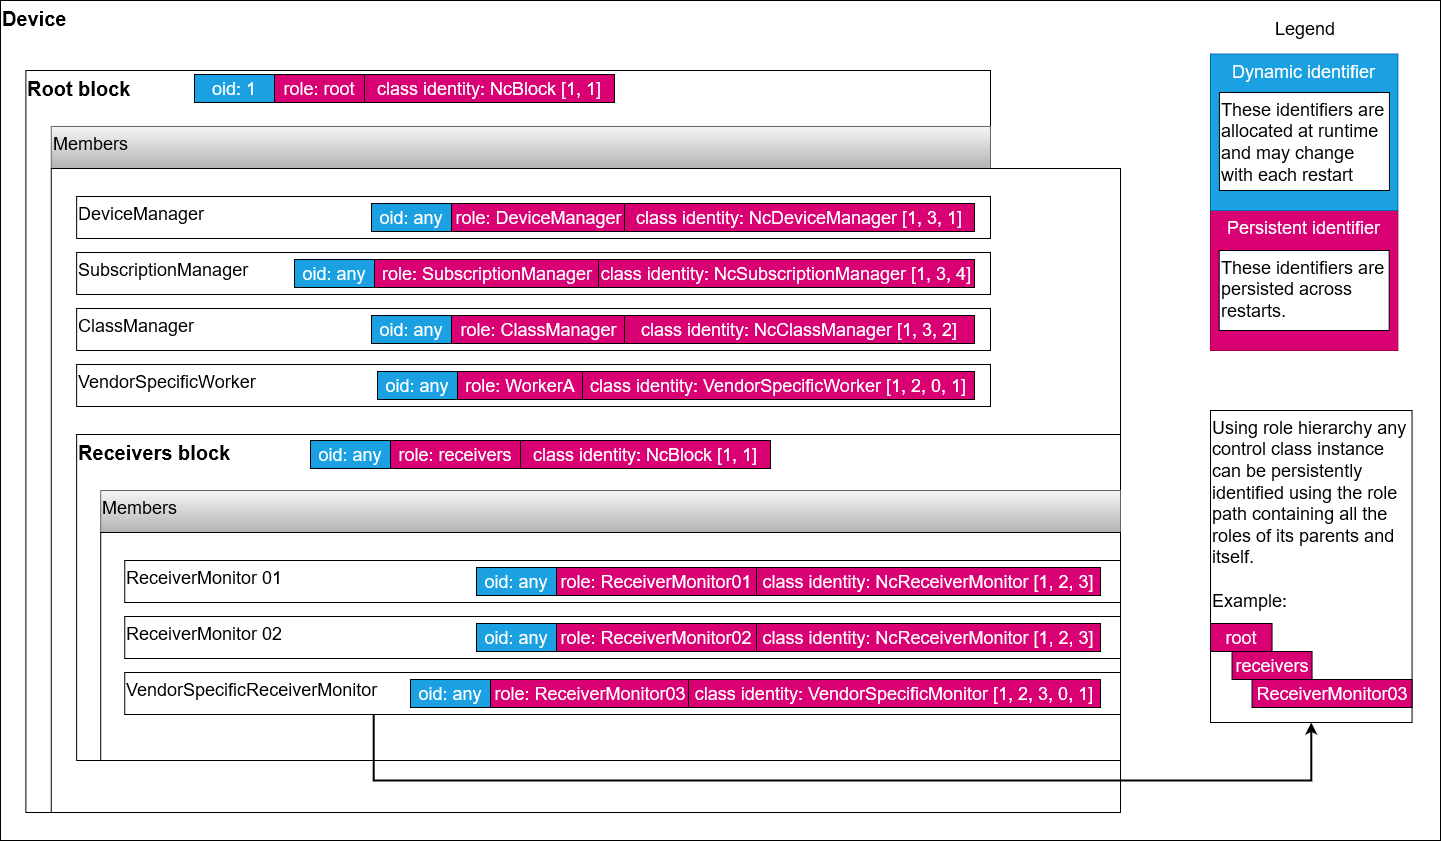
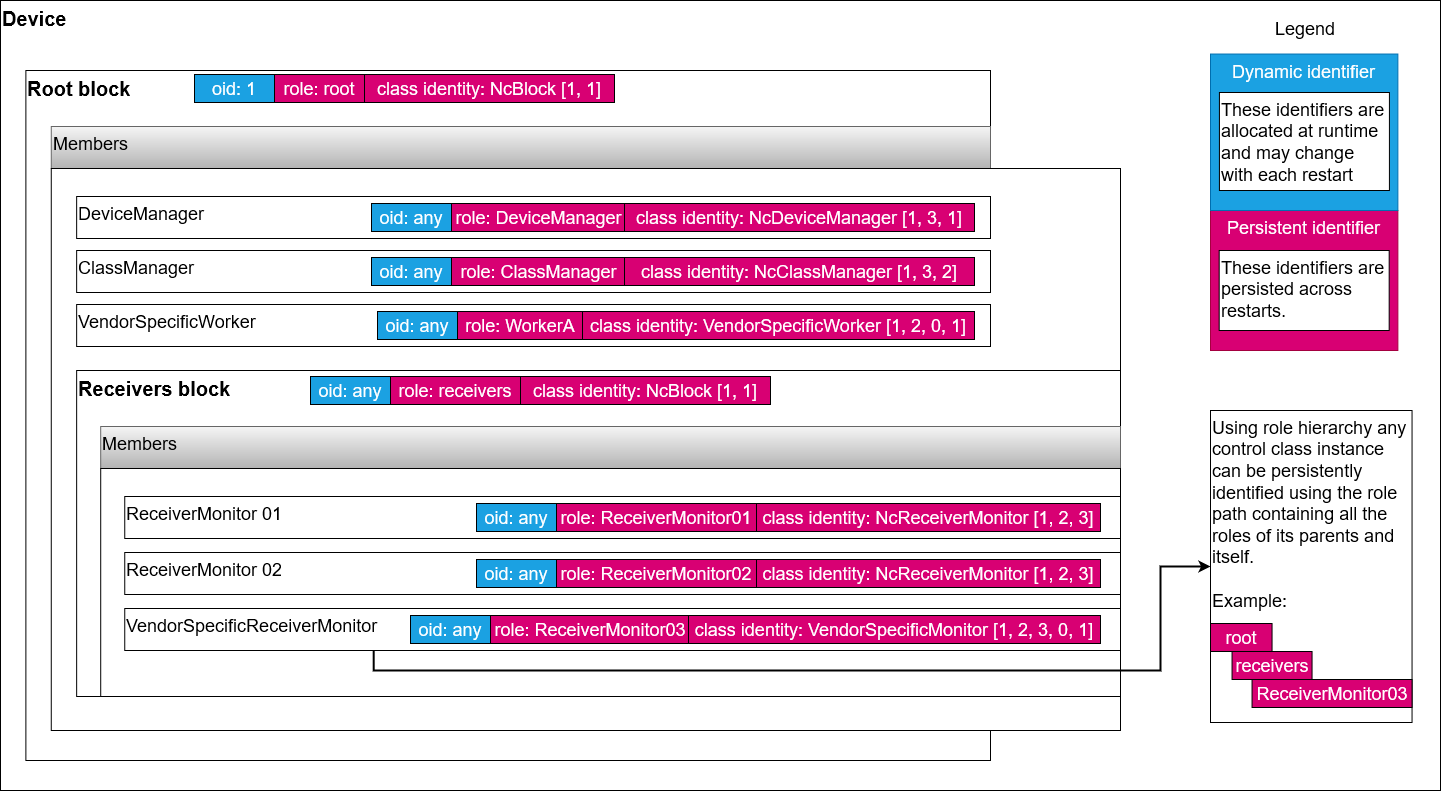
Synchronize content with main specs (#18)
* Synchronize content with main specs

- fix wording and avoid conformance language
- fix diagrams
- fix links

* Update Controller implementation tutorial.md

To fix link and avoid conformance language keyword.

* Update Device implementation tutorial.md

Backticks around members to be consistent with other documents in this INFO spec as per review comment.

diff --git a/docs/Device implementation tutorial.md b/docs/Device implementation tutorial.md
@@ -11,7 +11,7 @@ This section covers the basis for quickly building an MS-05 / IS-12 device imple
 
 This section provides guidance in select focus areas required for device implementations.
 
-For full definitions of models referred to in this document please check the [IDL](https://specs.amwa.tv/ms-05-02/branches/v1.0-dev/idl/NC-Framework.html).
+For full definitions of models referred to in this document please check the models published in the [Framework](https://specs.amwa.tv/ms-05-02/branches/v1.0-dev/docs/Framework.html) or the [Feature Sets Register](https://specs.amwa.tv/nmos-control-feature-sets/).
 
 The basic device workflow follows the diagram below where individual steps are detailed in the following subsections.
 
@@ -21,7 +21,7 @@ The basic device workflow follows the diagram below where individual steps are d
 
 ### Modelling the control classes
 
-As per the [MS-05-02](https://specs.amwa.tv/ms-05-02/branches/v1.0-dev/docs/NcObject.html) specification all control classes must inherit from `NcObject`.
+As per the [MS-05-02](https://specs.amwa.tv/ms-05-02/branches/v1.0-dev/docs/NcObject.html) specification all control classes inherit from `NcObject`.
 
 This base control class exposes important properties but also [generic methods](https://specs.amwa.tv/ms-05-02/branches/v1.0-dev/docs/NcObject.html#generic-getter-and-setter) for getting and setting property values.
 
@@ -42,9 +42,9 @@ As per the [MS-05-02](https://specs.amwa.tv/ms-05-02/branches/v1.0-dev/docs/Bloc
 
 All devices have at the very least a `root block` which is the top most block in the device tree. The root block has an `oid` of 1 and the role of `root`.
 
-Control classes which are nested inside a block are advertised using descriptors in the members property (`2p10`) of [NcBlock](https://specs.amwa.tv/ms-05-02/branches/v1.0-dev/idl/NC-Framework.html).
+Control classes which are nested inside a block are advertised using descriptors in the `members` property of [NcBlock](https://specs.amwa.tv/ms-05-02/branches/v1.0-dev/docs/Framework.html#ncblock).
 
-The members property in blocks enables [tree discovery](https://specs.amwa.tv/ms-05-02/branches/v1.0-dev/docs/Blocks.html#tree-discovery) of the device structure.
+The `members` property in blocks enables [tree discovery](https://specs.amwa.tv/ms-05-02/branches/v1.0-dev/docs/Blocks.html#tree-discovery) of the device structure.
 
 Blocks are also useful for quickly finding a particular control class by using the [search methods](https://specs.amwa.tv/ms-05-02/branches/v1.0-dev/docs/Blocks.html#tree-discovery) provided.
 
@@ -69,11 +69,11 @@ Indeed, sometimes devices might also need to create vendor specific worker class
 
 [MS-05-02](https://specs.amwa.tv/ms-05-02/branches/v1.0-dev/docs/NcObject.html#touchpoints) specifies an identity mapping mechanism available in the base `NcObject` class. This touchpoint mechanism can be used to associate identities from outside contexts with entities inside the control structure of the device.
 
-One such example is the [ReceiverMonitor](https://specs.amwa.tv/ms-05-02/branches/v1.0-dev/docs/Feature_sets.html#ncreceivermonitor) control class which is used to express connection and payload statuses for an attached stream receiver.
+One such example is the [ReceiverMonitor](https://specs.amwa.tv/nmos-control-feature-sets/branches/main/monitoring/#ncreceivermonitor) control class which is used to express connection and payload statuses for an attached stream receiver.
 
 This allows for a `Receiver monitor` to be associated with a specific [NMOS IS-04](https://specs.amwa.tv/is-04/) receiver.
 
-A device is expected to offer touchpoints to map identities wherever relevant (For example if the device has a specific worker class like the `Receiver monitor` which is linked to a resource in another context or specification like an NMOS IS-05 receiver).
+A device is expected to offer touchpoints to map identities wherever relevant (For example if the device has a specific worker class like the `Receiver monitor` which is linked to a resource in another context or specification like an NMOS IS-04 receiver).
 
 | ![Context identity mapping](images/context-identity-mapping.png) |
 |:--:|
@@ -92,13 +92,13 @@ A minimal implementation of a device will have at least two [managers](Device%20
 |:--:|
 | _**Typical device structure**_ |
 
-A device is expected to allow its structure to be discovered (see [Block control classes](Device%20implementation%20tutorial.md#block-control-classes)) by exposing all of its features in nested blocks starting with the `root block`.
+A device is expected to allow its structure to be discovered (see [Block control classes](Device%20implementation%20tutorial.md#block-control-classes)) by exposing its capabilities in nested blocks starting with the `root block`.
 
 #### Vendor specific control classes
 
 Vendor specific control classes can be created by branching off from a standard control class and following the class ID generation guidelines specified in [MS-05-01](https://specs.amwa.tv/ms-05-01/branches/v1.0-dev/docs/Appendix_A_-_Class_ID_Format.html).
 
-Here is an example of a new worker control class called `DemoClassAlpha`. It inherits from [NcWorker](https://specs.amwa.tv/ms-05-02/branches/v1.0-dev/idl/NC-Framework.html) which has an identity of `[1, 2]` and adds the authority key (in this case 0, but should be a negative number if the vendor has an OUI or CID) followed by the index 1.
+Here is an example of a new worker control class called `DemoClassAlpha`. It inherits from [NcWorker](https://specs.amwa.tv/ms-05-02/branches/v1.0-dev/docs/Framework.html#ncworker) which has an identity of `[1, 2]` and adds the authority key (in this case 0, but would be a negative number if the vendor has an OUI or CID) followed by the index 1.
 
 ```json
 {
@@ -146,7 +146,7 @@ ensuring class identity uniqueness.
 
 ### Exposing models through the protocol
 
-After a device has initiated its device tree structure and allocated oids to every control class instance, it then either waits for external commands which interact with these entities (e.g. get/set values, invoke actions) or sends notifications for properties which have changed if there are subscribers.
+After a device has initiated its device model structure and allocated oids to every control class instance, it then either waits for external commands which interact with these entities (e.g. get/set values, invoke actions) or sends notifications for properties which have changed if there are subscriptions.
 
 [IS-12](https://specs.amwa.tv/is-12/branches/v1.0-dev/docs/Protocol_messaging.html) defines the protocol messaging behavior but also what the different JSON representations are for specific [data types](https://specs.amwa.tv/is-12/branches/v1.0-dev/docs/Data_type_marshalling.html).
 
@@ -185,11 +185,11 @@ As per the [NMOS IS-12](https://specs.amwa.tv/is-12/branches/v1.0-dev/docs/Proto
 
 `Note`: Multiple commands can be sent in the commands array.
 
-As per the [MS-05-02](https://specs.amwa.tv/ms-05-02/branches/v1.0-dev/docs/NcObject.html#generic-getter-and-setter) specification all control classes must inherit from `NcObject` which specifies generic `Get` and `Set` methods.
+As per the [MS-05-02](https://specs.amwa.tv/ms-05-02/branches/v1.0-dev/docs/NcObject.html#generic-getter-and-setter) specification all control classes inherit from `NcObject` which specifies generic `Get` and `Set` methods.
 
-These methods can be used by a controller to get the value of a property in a control class or set the value of a property in a control class if write allowed. Furthermore, any control class may have its own methods which can be invoked in the same way as the generic methods.
+These methods can be used by a controller to get the value of a property in a control class or set the value of a property in a control class if write allowed. Furthermore, any control class could have other methods which can be invoked in the same way as the generic methods.
 
-As specified by the [IDL](https://specs.amwa.tv/ms-05-02/branches/v1.0-dev/idl/NC-Framework.html) any method response must inherit from the base data type `NcMethodResult`.
+As specified by `MS-05-02` any method response inherits from the base data type [NcMethodResult](https://specs.amwa.tv/ms-05-02/branches/v1.0-dev/docs/Framework.html#ncmethodresult).
 
 | ![Command example](images/command-example.png) |
 |:--:|
@@ -197,9 +197,9 @@ As specified by the [IDL](https://specs.amwa.tv/ms-05-02/branches/v1.0-dev/idl/N
 
 #### Subscriptions, events and notifications
 
-As per the [MS-05-02](https://specs.amwa.tv/ms-05-02/branches/v1.0-dev/docs/NcObject.html#propertychanged-event) specification all control classes must inherit from `NcObject` which specifies the `PropertyChanged` event.
+As per the [MS-05-02](https://specs.amwa.tv/ms-05-02/branches/v1.0-dev/docs/NcObject.html#propertychanged-event) specification all control classes inherit from `NcObject` which specifies the `PropertyChanged` event.
 
-This means any properties in any control class can be subscribed to in order to receive change notifications.
+This means any object in the device model can be subscribed to in order to receive property change notifications.
 A device is expected to allow controllers to [Subscribe](https://specs.amwa.tv/is-12/branches/v1.0-dev/docs/Subscribing_to_events.html) to object ids it is interested in by correctly handling `Subscription` messages and sending back `SubscriptionResponse` messages as specified in [NMOS IS-12](https://specs.amwa.tv/is-12/branches/v1.0-dev/docs/Protocol_messaging.html).
 
 A device is also expected to use the underlying WebSocket control protocol context and the subscriptions received in order to determine when a notification message needs to be sent to a controller.

diff --git a/docs/Controller implementation tutorial.md b/docs/Controller implementation tutorial.md
@@ -54,17 +54,17 @@ As per the [NMOS IS-12](https://specs.amwa.tv/is-12/branches/v1.0-dev/docs/Proto
 
 `Note`: Multiple commands can be sent in the commands array.
 
-As per the [MS-05-02](https://specs.amwa.tv/ms-05-02/branches/v1.0-dev/docs/NcObject.html#generic-getter-and-setter) specification all control classes must inherit from `NcObject` which specifies generic `Get` and `Set` methods.
+As per the [MS-05-02](https://specs.amwa.tv/ms-05-02/branches/v1.0-dev/docs/NcObject.html#generic-getter-and-setter) specification all control classes inherit from `NcObject` which specifies generic `Get` and `Set` methods.
 
-These methods can be used by a controller to get the value of a property in a control class or set the value of a property in a control class if write allowed.
+These methods can be used by a controller to get the value of a property in an object or set the value of a property in an object if write allowed.
 
-### Exploring the device tree structure
+### Exploring the device model
 
-As per the [MS-05-02](https://specs.amwa.tv/ms-05-02/branches/v1.0-dev/docs/Blocks.html) specification all MS-05 / IS-12 devices will expose a structure starting with the root block which always has an `oid` of 1.
+As per the [MS-05-02](https://specs.amwa.tv/ms-05-02/branches/v1.0-dev/docs/Blocks.html) specification all MS-05 / IS-12 devices expose a structure starting with the root block which always has an `oid` of 1.
 
 The root block, among other things holds [Managers](https://specs.amwa.tv/ms-05-02/branches/v1.0-dev/docs/Managers.html) which are special singleton control classes which collate information which pertains to the entire device.
 
-A minimal implementation of a device will have at least three managers listed in the root block:
+A minimal implementation of a device has at least two managers listed in the root block:
 
 - Device manager
 - Class manager
@@ -73,7 +73,7 @@ A minimal implementation of a device will have at least three managers listed in
 |:--:|
 | _**Typical device structure**_ |
 
-A controller is expected to [Discover the structure](https://specs.amwa.tv/is-12/branches/v1.0-dev/docs/Exploring_the_device_tree.html) of a device by recursively querying the members of nested blocks. It will also discover the implemented managers in the root block by checking their class identity or roles.
+A controller is expected to [Discover the structure](https://specs.amwa.tv/is-12/branches/v1.0-dev/docs/Exploring_the_device_tree.html) of a device by recursively querying the members of nested blocks. It also discovers the implemented managers in the root block by checking their class identity or roles.
 
 | ![Exploring device tree](images/exploring-device-tree.png) |
 |:--:|
@@ -94,9 +94,9 @@ A controller is expected to be able to work with all the identifiers exposed by 
 
 ### Subscribing and receiving notifications
 
-As per the [MS-05-02](https://specs.amwa.tv/ms-05-02/branches/v1.0-dev/docs/NcObject.html#propertychanged-event) specification all control classes must inherit from `NcObject` which specifies the `PropertyChanged` event.
+As per the [MS-05-02](https://specs.amwa.tv/ms-05-02/branches/v1.0-dev/docs/NcObject.html#propertychanged-event) specification all control classes inherit from `NcObject` which specifies the `PropertyChanged` event.
 
-This means any properties in any control class can be subscribed to in order to receive change notifications.
+This means any object can be subscribed to in order to receive property change notifications.
 
 A controller is expected to [Subscribe](https://specs.amwa.tv/is-12/branches/v1.0-dev/docs/Subscribing_to_events.html) to object ids it is interested in by sending `Subscription` messages as specified in [NMOS IS-12](https://specs.amwa.tv/is-12/branches/v1.0-dev/docs/Protocol_messaging.html).
 
@@ -104,11 +104,11 @@ A controller is expected to [Subscribe](https://specs.amwa.tv/is-12/branches/v1.
 
 [MS-05-02](https://specs.amwa.tv/ms-05-02/branches/v1.0-dev/docs/NcObject.html#touchpoints) specifies an identity mapping mechanism available in the base `NcObject` class. This touchpoint mechanism can be used to associate identities from outside contexts with entities inside the control structure of the device.
 
-One such example is the [ReceiverMonitor](https://specs.amwa.tv/ms-05-02/branches/v1.0-dev/docs/Feature_sets.html#ncreceivermonitor) control class which is used to express connection and payload statuses for an attached stream receiver.
+One such example is the [ReceiverMonitor](https://specs.amwa.tv/nmos-control-feature-sets/branches/main/monitoring/#ncreceivermonitor) control class which is used to express connection and payload statuses for an attached stream receiver.
 
-This allows for a `Receiver monitor` to be associated with a specific [NMOS IS-04](https://specs.amwa.tv/is-04/) receiver.
+The touchpoint mechanism allows for a `Receiver monitor` to be associated with a specific [NMOS IS-04](https://specs.amwa.tv/is-04/) receiver.
 
-A controller is expected to decode touchpoint information where available and associate identities if it has access to the data domains exposed (For example a controller would be able to identity which NMOS IS-04 receiver is associated with a given `Receiver monitor` control class instance).
+A controller is expected to decode touchpoint information where available and associate identities if it has access to the data domains exposed (For example a controller would be able to identity which NMOS IS-04 receiver is associated with a given `Receiver monitor` object).
 
 | ![Context identity mapping](images/context-identity-mapping.png) |
 |:--:|
@@ -120,7 +120,7 @@ As per the [MS-05-02](https://specs.amwa.tv/ms-05-02/branches/v1.0-dev/docs/Mana
 
 Vendor specific control classes can be created by branching off from a standard control class and following the class ID generation guidelines specified in [MS-05-01](https://specs.amwa.tv/ms-05-01/branches/v1.0-dev/docs/Appendix_A_-_Class_ID_Format.html).
 
-Here is an example of a new worker control class called `DemoClassAlpha`. It inherits from [NcWorker](https://specs.amwa.tv/ms-05-02/branches/v1.0-dev/idl/NC-Framework.html) which has an identity of `[1, 2]` and adds the authority key (in this case 0, but should be a negative number if the vendor has an OUI or CID) followed by the index 1.
+Here is an example of a new worker control class called `DemoClassAlpha`. It inherits from [NcWorker](https://specs.amwa.tv/ms-05-02/branches/v1.0-dev/docs/Framework.html#ncworker) which has an identity of `[1, 2]` and adds the authority key (in this case 0, but would be a negative number if the vendor has an OUI or CID) followed by the index 1.
 
 ```json
 {

diff --git a/docs/Tutorials.md b/docs/Tutorials.md
@@ -11,7 +11,6 @@ Target specifications:
 
 - [MS-05-01 NMOS Control Architecture](https://specs.amwa.tv/ms-05-01)
 - [MS-05-02 NMOS Control Framework](https://specs.amwa.tv/ms-05-02)
-- [MS-05-03 NMOS Control Block Specifications](https://specs.amwa.tv/ms-05-03)
 - [AMWA IS-12 NMOS Control Protocol](https://specs.amwa.tv/is-12)
 
 `Note:` This guide assumes some previous familiarity with two existing NMOS specifications:
